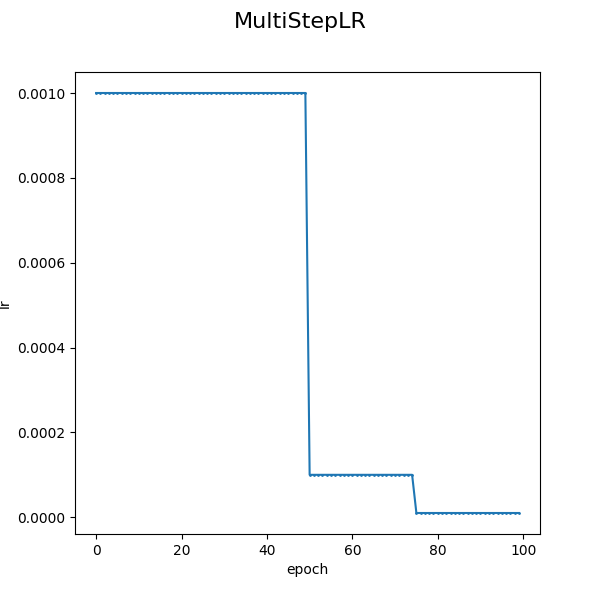
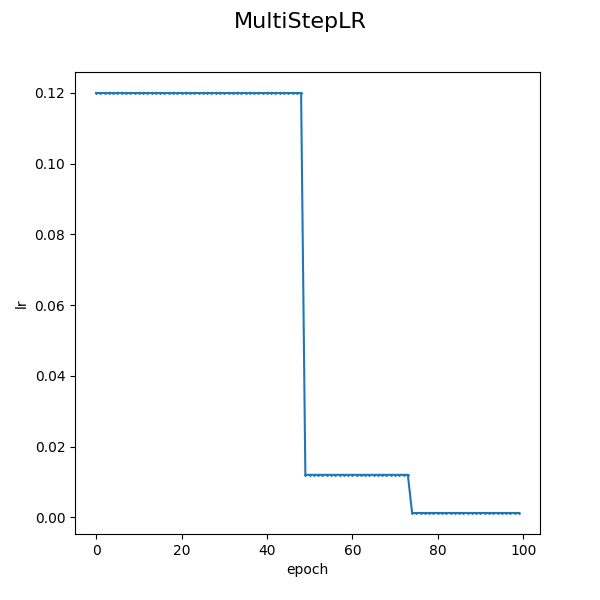
update

diff --git a/tests/test_lr_scheduler.py b/tests/test_lr_scheduler.py
@@ -2,10 +2,10 @@
 from pathlib import Path
 
 import matplotlib
-import torch.nn as nn
+import torch
 import torch.optim as optim
 import yaml
-from addict import Dict
+from omegaconf import OmegaConf
 
 matplotlib.use("Agg")
 import sys  # noqa
@@ -23,16 +23,13 @@ def main():
     output = Path("./doc/lr_scheduler")
     output.mkdir(parents=True, exist_ok=True)
 
-    for path in Path("config/LR_SCHEDULER").glob("*.yaml"):
-        with open(path) as f:
-            cfg = yaml.safe_load(f)
-        cfg = Dict(cfg)
+    for path in Path("config/__BASE__/LR_SCHEDULER").glob("*.yaml"):
+        cfg = OmegaConf.load(path)
         cfg["EPOCH"] = EPOCH
         if "MAX_LR" in cfg:
             cfg["MAX_LR"] = 0.12
         print(cfg)
-        model = nn.Sequential(nn.Conv2d(3, 32, 3))
-        optimizer = optim.SGD(model.parameters(), lr=0.12, momentum=0.9, weight_decay=1e-4)
+        optimizer = optim.SGD([torch.zeros(3)], lr=0.12, momentum=0.9, weight_decay=1e-4)
         iter_scheduler, scheduler = build_lr_scheduler(cfg, optimizer, EPOCH)
 
         print(iter_scheduler, scheduler)

diff --git a/src/scheduler.py b/src/scheduler.py
@@ -92,6 +92,25 @@ def build_lr_scheduler(cfg, optimizer, epoch):
             end_factor=cfg.END_FACTOR,
             total_iters=epoch,
         )
+    elif lr_scheduler_name == "mmdet_1x":
+        lr = optimizer.defaults["lr"]
+        iter_scheduler = LinearLR(
+            optimizer,
+            start_factor=cfg.ITER_SCHEDULER.START_FACTOR,
+            end_factor=lr,
+            total_iters=cfg.ITER_SCHEDULER.TOTAL_ITERS,
+        )
+        milestones = []
+        for m in cfg.EPOCH_SCHEDULER.MILESTONES:
+            if isinstance(m, float):
+                milestones.append(round(m * epoch))
+            elif isinstance(m, int):
+                milestones.append(m)
+        scheduler = MultiStepLR(
+            optimizer,
+            milestones=milestones,
+            gamma=cfg.EPOCH_SCHEDULER.GAMMA,
+        )
     elif lr_scheduler_name == "ChainedScheduler":
         schedulers = [build_lr_scheduler(c, optimizer, epoch)[1] for c in cfg.SCHEDULERS]
         scheduler = ChainedScheduler(schedulers)
